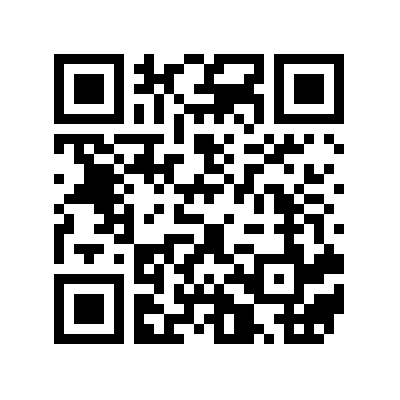
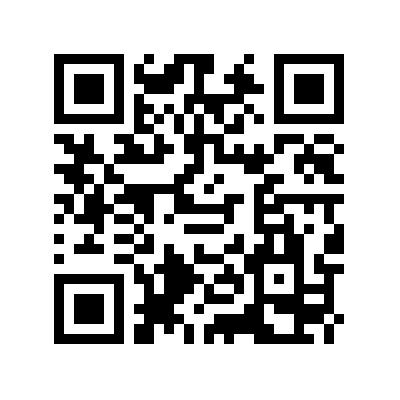
Complete ReadQRCode

Changed region(s): [[0.12, 0.12, 0.87, 0.87]]

diff --git a/QRCodeGenerateRead/Controllers/HomeController.cs b/QRCodeGenerateRead/Controllers/HomeController.cs
@@ -57,15 +57,27 @@ namespace QRCodeGenerateRead.Controllers
             return View();
         }
 
+        public IActionResult ReadQRCode()
+        {
+            string webRootPath = _hostEnvironment.WebRootPath;
+            var path= webRootPath+ "\\Images\\QRCodeNew.png";
+            var reader = new BarcodeReaderGeneric();
+            Bitmap image =(Bitmap)Image.FromFile(path);
+
+            using(image)
+            {
+                LuminanceSource source;
+                source = new ZXing.Windows.Compatibility.BitmapLuminanceSource(image);
+                Result result = reader.Decode(source);
+                ViewBag.Text = result.Text;
+            }
+
+            return View("Index");
+        }
+
         public IActionResult Privacy()
         {
             return View();
-        }
-
-        [ResponseCache(Duration = 0, Location = ResponseCacheLocation.None, NoStore = true)]
-        public IActionResult Error()
-        {
-            return View(new ErrorViewModel { RequestId = Activity.Current?.Id ?? HttpContext.TraceIdentifier });
         }
     }
 }
